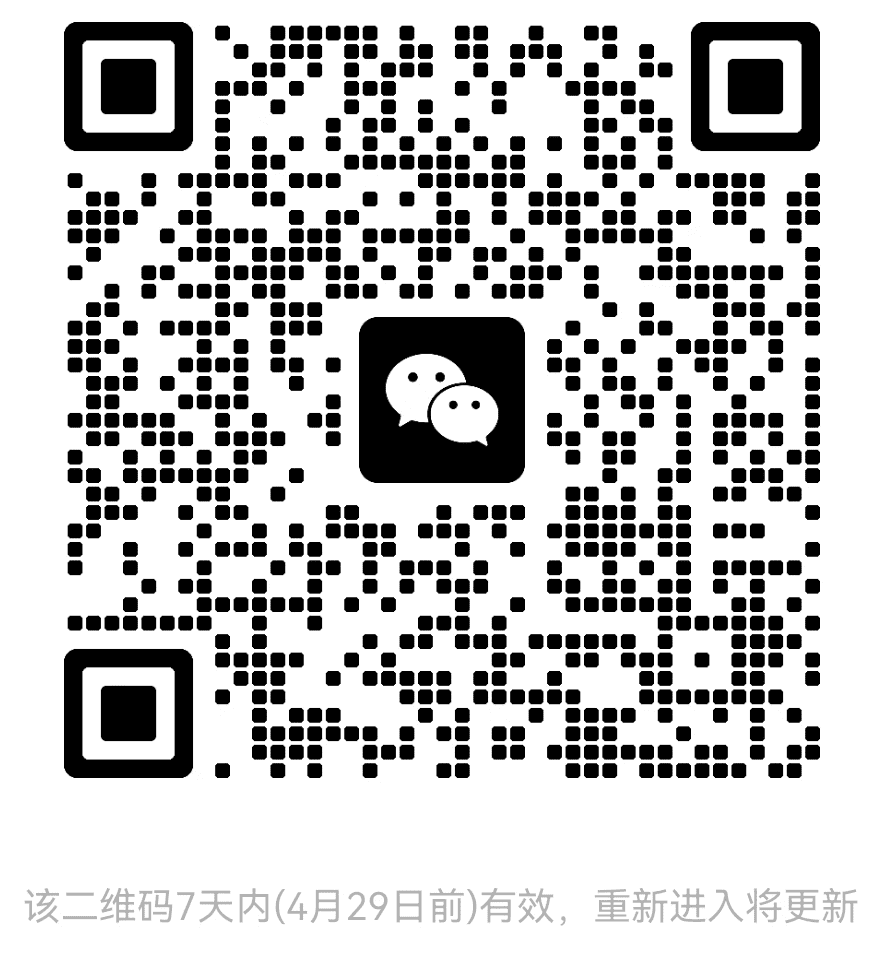
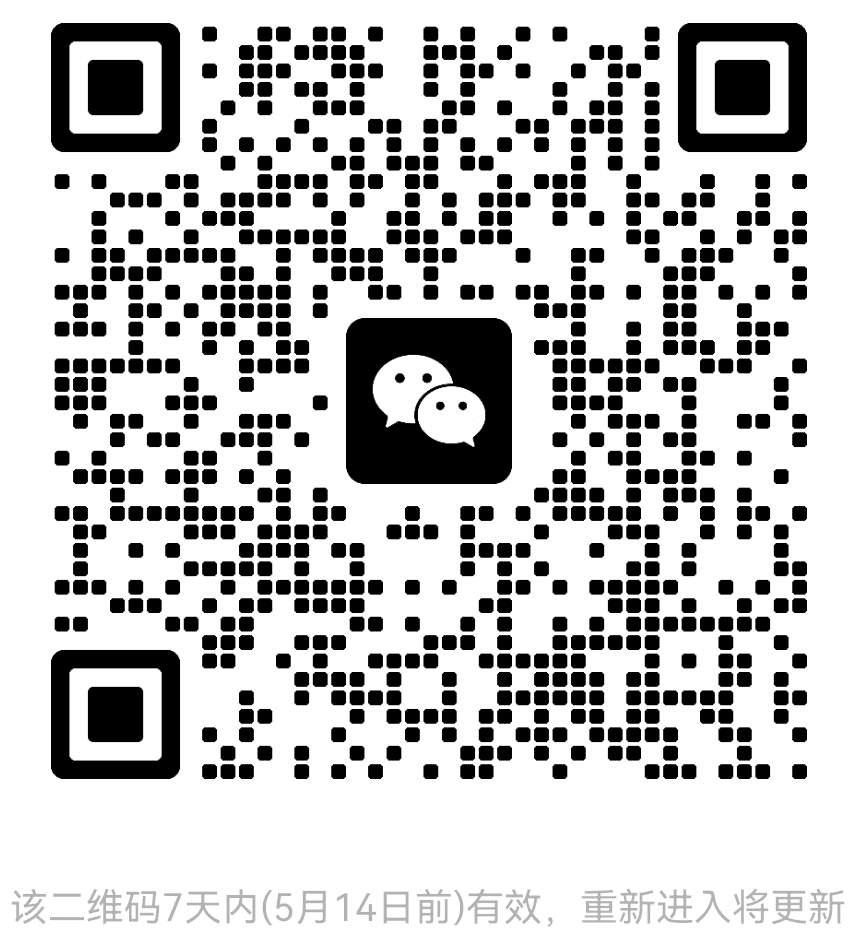
Update weixin

diff --git a/README-zh.md b/README-zh.md
@@ -8,7 +8,7 @@
 [![Percentage of issues still open](http://isitmaintained.com/badge/open/jd-opensource/joylive-agent.svg)](http://isitmaintained.com/project/jd-opensource/joylive-agent "Percentage of issues still open")
 [![Slack Status](https://img.shields.io/badge/slack-join_chat-white.svg?logo=slack&style=social)](https://joylivehq.slack.com)
 
-<img src="docs/image/weixin.png" title="该二维码有效期截止到2025/04/29" width="150"  />
+<img src="docs/image/weixin.png" title="该二维码有效期截止到2025/05/14" width="150"  />
 
 [English](./README.md) | 简体中文
 

diff --git a/README.md b/README.md
@@ -8,7 +8,7 @@
 [![Percentage of issues still open](http://isitmaintained.com/badge/open/jd-opensource/joylive-agent.svg)](http://isitmaintained.com/project/jd-opensource/joylive-agent "Percentage of issues still open")
 [![Slack Status](https://img.shields.io/badge/slack-join_chat-white.svg?logo=slack&style=social)](https://joylivehq.slack.com)
 
-<img src="docs/image/weixin.png" title="The QR code is valid until 2025/04/29" width="150" />
+<img src="docs/image/weixin.png" title="The QR code is valid until 2025/05/14" width="150" />
 
 English | [简体中文](./README-zh.md)
 
